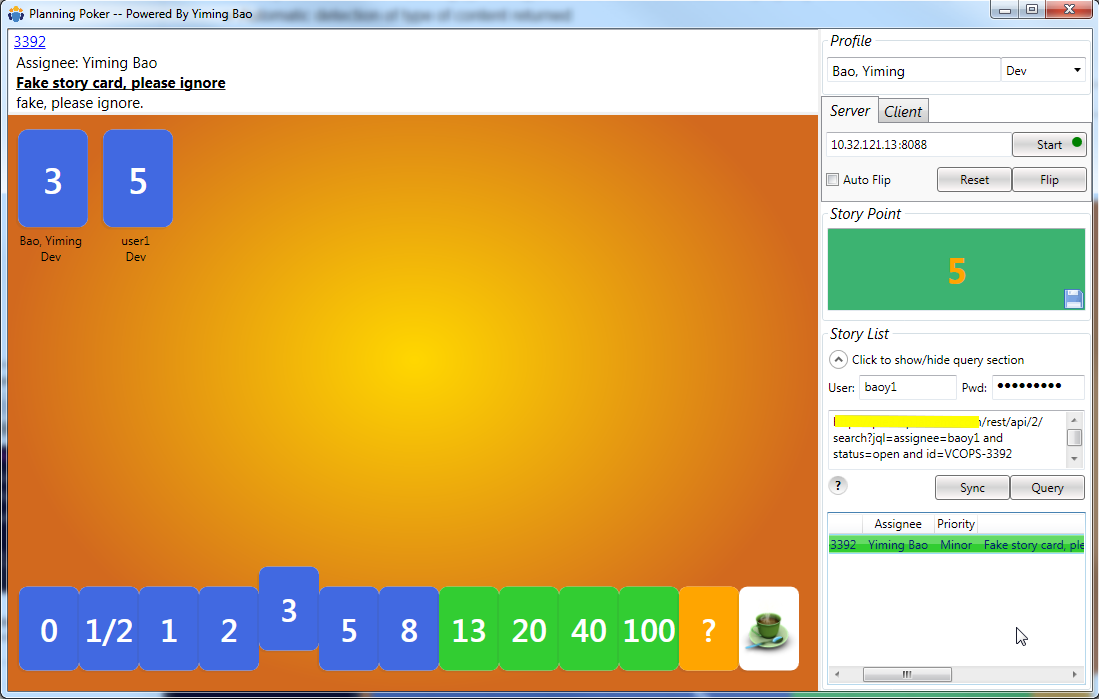
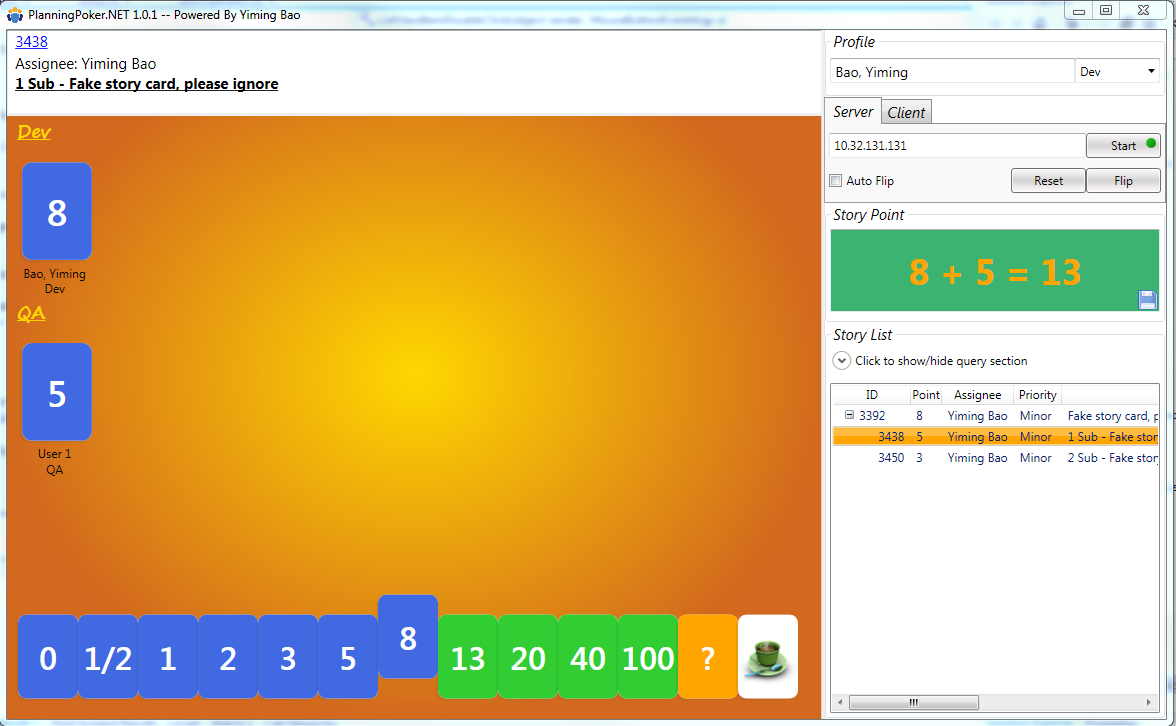
DevOps - Update README

Changed region(s): [[0.0, 0.0, 1.0, 1.0]]

diff --git a/README.md b/README.md
@@ -42,6 +42,15 @@ You can adjust your role in the profile section.
    Then edit PlanningPoker.exe.config, change the value of StoryPointField to that in your environment.
 4. How to adjust the port?
    By default, the port used by PlanningPoker is 808, if the port is occupied, you can change it on your own: edit PlanningPoker.exe.config, change the value of Port to what you need.
+5. How to group participants by role?
+   To enable this feature, you need add the following item in PlanningPoker.exe.config
+   <add key="GroupByRole" value="true"/>
+6. How to show calculated story point by role group?
+   Note only Dev and QA are valid in the algorithm.
+   To enable this feature, you need to uncomment out the following item in  PlanningPoker.exe.config
+   <add key="StoryPointAlgorithm" value="RoleGroup"/>
+7. How to query story?
+   Take JIRA for example, refer to the link [JIRA REST API Example - Query issues](https://developer.atlassian.com/jiradev/jira-apis/jira-rest-apis/jira-rest-api-tutorials/jira-rest-api-example-query-issues)
 
 ### Known issue
 * If the GUI has been inactive for a time, the connection between server and client will be lost.
